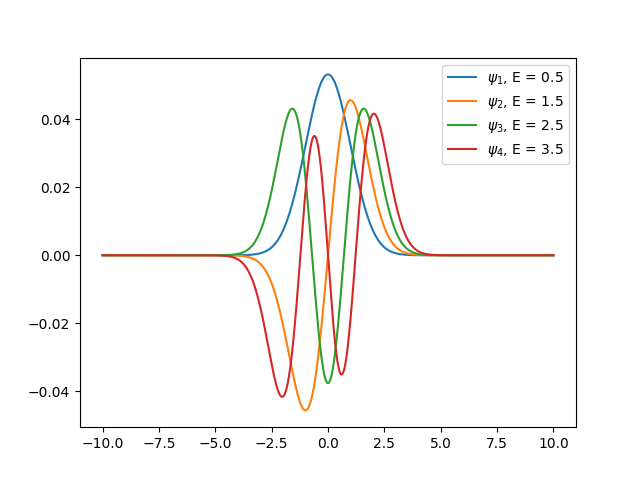
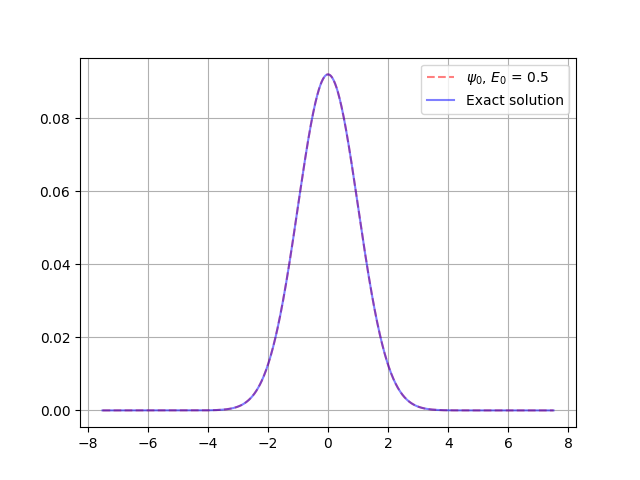
Update lesson 11

diff --git a/lesson_11/schrodinger.py b/lesson_11/schrodinger.py
@@ -1,69 +1,57 @@
 import matplotlib.pyplot as plt
 import numpy as np
 
+L, n = 15, 1000
+h = L / n
+k = 10
 
-def U(x):
-    return x**2 / 2
+A = np.zeros((n + 1, n + 1))
+psi = np.zeros((k + 1, n + 1))
+energy = np.zeros(k + 1)
+x = np.linspace(-L / 2, L / 2, n + 1)
+exact_solution = np.exp(-0.5 * x**2)
 
-
-n = 4000
-N = 60
-x1 = -10
-x2 = 10
-m = 4
-y0 = np.ones(n) + np.linspace(0, 1, n)
-x = np.linspace(x1, x2, n, True)
-h = x[1] - x[0]
-a = [-1.0 / (2 * h**2) for i in range(0, n)]
-b = [1.0 / h**2 + U(x[i]) for i in range(0, n)]
-c = [-1.0 / (2 * h**2) for i in range(0, n)]
+for i in range(n + 1):
+    psi[0][i] = i**2
 
 
-def tridiag_matrix_alg(a, b, c, d, n):
-    y = []
-    for i in range(0, n):
-        y.append(0)
-
-    for i in range(1, n):
-        xi = a[i] / b[i - 1]
-        a[i] = 0
-        b[i] -= xi * c[i - 1]
-        d[i] -= xi * d[i - 1]
-
-    y[n - 1] = d[n - 1] / b[n - 1]
-
-    for i in range(n - 2, -1, -1):
-        y[i] = 1 / b[i] * (d[i] - c[i] * y[i + 1])
-
-    return y
+def potential(x):
+    return 0.5 * x**2
 
 
-def inv_iter(y0, a, b, c, n, N, m):
-    psi, E = [], []
+for i, j in np.ndindex(A.shape):
+    if i == j:
+        A[i][j] = 1 / h**2 + potential(x[i])
+    elif i == j - 1:
+        A[i][j] = -1 / (2 * h**2)
+    elif i == j + 1:
+        A[i][j] = -1 / (2 * h**2)
 
-    for j in range(0, m):
-        d2 = y0.copy()
-        for k in range(0, j):
-            d2 = d2 - psi[k] * (np.inner(y0, psi[k])) / np.linalg.norm(psi[k])
-        for i in range(0, N):
-            d1 = d2
-            d = d1.copy()
-            a1 = a.copy()
-            b1 = b.copy()
-            c1 = c.copy()
-            d2 = tridiag_matrix_alg(a1, b1, c1, d, n)
-            for k in range(0, j):
-                d2 = d2 - psi[k] * (np.inner(d2, psi[k])) / np.linalg.norm(psi[k])
+A[0][0] = 1 / h**2 + potential(x[0])
+A[0][1] = -1 / (2 * h**2)
+A[n][n - 1] = -1 / (2 * h**2)
+A[n][n] = 1 / h**2 + potential(x[n])
 
-        E.append(np.linalg.norm(d1) / np.linalg.norm(d2))
-        psi.append(d2 / np.linalg.norm(d2))
-    return [E, psi]
+A_inv = np.linalg.inv(A)
 
 
-[E, psi] = inv_iter(y0, a, b, c, n, N, m)
+for i in range(1, k + 1):
+    psi[i] = A_inv.dot(psi[i - 1])
+    energy[i] = np.linalg.norm(psi[i - 1]) / np.linalg.norm(psi[i])
 
-for i in range(0, m):
-    plt.plot(x, psi[i], label=f"$\psi_{i + 1}$, E = {E[i].round(3)}")
 
+plt.plot(
+    x,
+    psi[-1] / np.linalg.norm(psi[-1]),
+    linestyle="--",
+    color="r",
+    alpha=0.5,
+    label=f"$\psi_{0}$, $E_{0}$ = {energy[-1]:.1f}",
+)
+plt.plot(
+    x, exact_solution / np.linalg.norm(exact_solution), linestyle="-", color="b", alpha=0.5, label="Exact solution"
+)
 plt.legend()
+plt.grid()
+
 plt.savefig("lesson_11/schrodinger.png")
